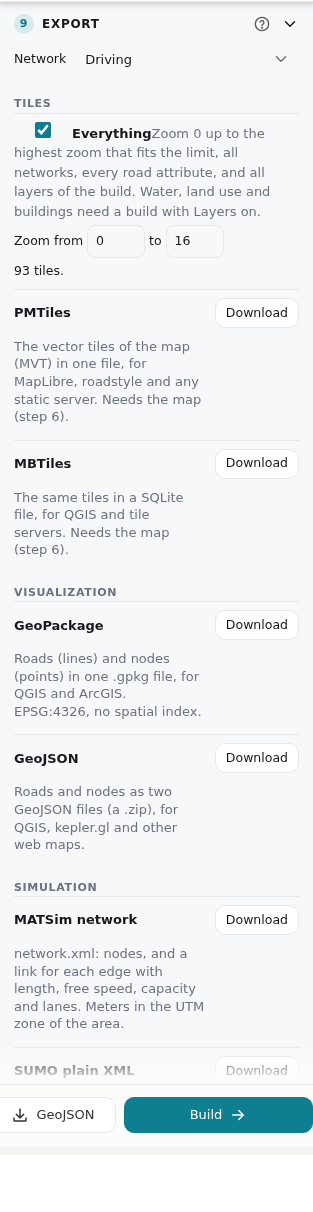
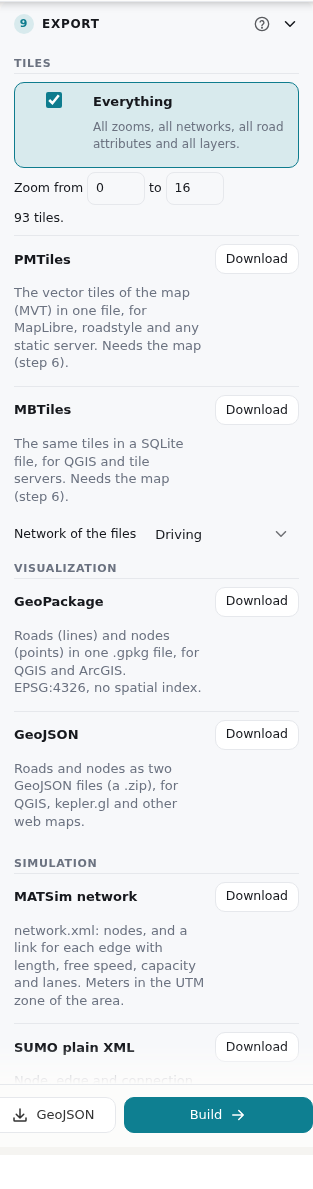
Export card: the network list after the tiles, option style, a short note for Everything

diff --git a/crates/duckosm-wasm/www/index.html b/crates/duckosm-wasm/www/index.html
@@ -331,11 +331,11 @@ if (["localhost", "127.0.0.1"].includes(location.hostname)) {
   #step4-card .modes { display: grid; grid-template-columns: repeat(3, 1fr); gap: 6px; }
   #step4-card .mode { display: flex; align-items: center; justify-content: center; gap: 7px; padding: 9px 6px; border: 1px solid var(--line); border-radius: 10px; background: var(--bg); font-weight: 500; cursor: pointer; }
   #step4-card .mode:has(input:checked) { border-color: var(--accent); background: var(--accent-soft); }
-  #step4-card .mode input, #step4-card .optrow input { margin: 0; accent-color: var(--accent); flex: none; }
-  #step4-card .optrow { display: flex; gap: 10px; align-items: flex-start; padding: 9px 10px; border: 1px solid var(--line); border-radius: 10px; background: var(--bg); cursor: pointer; }
-  #step4-card .optrow:has(input:checked) { border-color: var(--accent); background: var(--accent-soft); }
-  #step4-card .optrow .t { display: flex; flex-direction: column; gap: 2px; }
-  #step4-card .optrow small { color: var(--muted); font-size: 12px; line-height: 1.35; }
+  :is(#step4-card, #step9-card) .mode input, :is(#step4-card, #step9-card) .optrow input { margin: 0; accent-color: var(--accent); flex: none; }
+  :is(#step4-card, #step9-card) .optrow { display: flex; gap: 10px; align-items: flex-start; padding: 9px 10px; border: 1px solid var(--line); border-radius: 10px; background: var(--bg); cursor: pointer; }
+  :is(#step4-card, #step9-card) .optrow:has(input:checked) { border-color: var(--accent); background: var(--accent-soft); }
+  :is(#step4-card, #step9-card) .optrow .t { display: flex; flex-direction: column; gap: 2px; }
+  :is(#step4-card, #step9-card) .optrow small { color: var(--muted); font-size: 12px; line-height: 1.35; }
   #step4-card details.drow { margin: 0; padding: 10px 0 0; border-radius: 0; background: none; border-top: 1px solid var(--line); }       /* flat rows: roadstyle's rule makes a details a box (padding, radius, background) */
   #step4-card details.drow > summary { display: flex; align-items: center; justify-content: space-between; list-style: none; color: var(--fg); font-size: 13px; font-weight: 500; }
   #step4-card details.drow > summary::-webkit-details-marker { display: none; }
@@ -618,7 +618,7 @@ FROM driving.edges GROUP BY highway ORDER BY edges DESC</textarea>
 
 <section id="step9-card" class="step" aria-labelledby="step9">
   <h2 id="step9"><span class="n">9</span>Export</h2>
-  <div class="grid2" id="export-mode-row"><label for="export-mode" class="small">Network</label><select id="export-mode"></select></div>
+  <div class="grid2" id="export-mode-row"><label for="export-mode" class="small">Network of the files</label><select id="export-mode"></select></div>
   <div id="export-list"></div>
   <p id="export-status" class="progress" aria-live="polite"></p>
 </section>
@@ -2417,9 +2417,11 @@ function paintExport() {
   sel.innerHTML = modes.map((m) => `<option value="${m}">${m[0].toUpperCase() + m.slice(1)}</option>`).join("");
   sel.value = modes.includes(was) ? was : modes[0] ?? "";       // (roadstyle's list shows the new value after this)
   $("export-mode-row").hidden = modes.length < 2;
+  $("export-status").before($("export-mode-row"));                 // out of the list, which is made again
   let last = "";
-  const zoomRow = '<div class="exp zoomrow"><label class="optrow"><input type="checkbox" id="export-full" checked><span class="t"><b>Everything</b><small>Zoom 0 up to the highest zoom that fits the limit, all networks, every road attribute, and all layers of the build. Water, land use and buildings need a build with Layers on.</small></span></label><span class="small">Zoom from <input id="export-zmin" type="number" min="0" max="18" value="10" aria-label="The lowest zoom"> to <input id="export-zmax" type="number" min="0" max="18" value="14" aria-label="The highest zoom"></span><span id="export-tiles" class="small"></span></div>';
+  const zoomRow = '<div class="exp zoomrow"><label class="optrow"><input type="checkbox" id="export-full" checked><span class="t"><b>Everything</b><small>All zooms, all networks, all road attributes and all layers.</small></span></label><span class="small">Zoom from <input id="export-zmin" type="number" min="0" max="18" value="10" aria-label="The lowest zoom"> to <input id="export-zmax" type="number" min="0" max="18" value="14" aria-label="The highest zoom"></span><span id="export-tiles" class="small"></span></div>';
   $("export-list").innerHTML = exporter.FORMATS.map((f) => `${f.group !== last ? `<p class="grp">${(last = f.group)}</p>${f.tiles ? zoomRow : ""}` : ""}<div class="exp"><b>${esc(f.title)}</b><button type="button" class="btn sm" data-fmt="${f.id}"${f.tiles ? " data-tiles" : ""}>Download</button><small>${esc(f.note)}</small></div>`).join("");
+  [...$("export-list").querySelectorAll(".grp")].find((g) => g.textContent !== "Tiles")?.before($("export-mode-row"));     // the network applies to the files below the tiles
   paintTileCount();
 }
 // the tiles of the map (card 6): the sources of the map's style, in MVT; the box is the extent of the network; the zooms are the two numbers of the card

diff --git a/crates/duckosm-wasm/www/export_e2e.py b/crates/duckosm-wasm/www/export_e2e.py
@@ -68,6 +68,8 @@ with sync_playwright() as p:
     if "folded" in (page.get_attribute("#step9-card", "class") or ""):
         page.click("#step9")
     assert page.locator("#export-list [data-fmt]").count() == 6 and page.locator("#export-mode option").count() == 3
+    assert page.evaluate("document.getElementById('export-zmax').compareDocumentPosition(document.getElementById('export-mode-row')) & Node.DOCUMENT_POSITION_FOLLOWING"), "the network list comes after the tile section (it is for the files)"
+    assert page.evaluate("getComputedStyle(document.querySelector('#export-full').closest('.optrow')).display") == "flex", "the Everything row has the card's option style"
     n_edges = rows(page, "SELECT count(*)::INTEGER AS n FROM driving.edges")[0]["n"]
     n_nodes = rows(page, "SELECT count(*)::INTEGER AS n FROM driving.nodes")[0]["n"]
     ids = {str(r["edge_id"]) for r in rows(page, "SELECT edge_id::VARCHAR AS edge_id FROM driving.edges")}

diff --git a/docs/dashboard.md b/docs/dashboard.md
@@ -291,7 +291,7 @@ Card 8 opens roadstyle's level editor for the roads that you built: change the l
 
 ![Card 9: the network and the export formats](img/dashboard/11b-export.png)
 
-Card 9 gives the network that you built to other software. It is off until a build ends. The files are made in your browser from the tables, and each **Download** button makes one file. The **Network** list shows the networks that you built (it shows when there is more than one).
+Card 9 gives the network that you built to other software. It is off until a build ends. The files are made in your browser from the tables, and each **Download** button makes one file. The **Network of the files** list (below the tiles) sets the network for GeoPackage, GeoJSON, MATSim and SUMO. It shows when you built more than one network. The tiles do not use it.
 
 | Format | File | What it has |
 |---|---|---|
